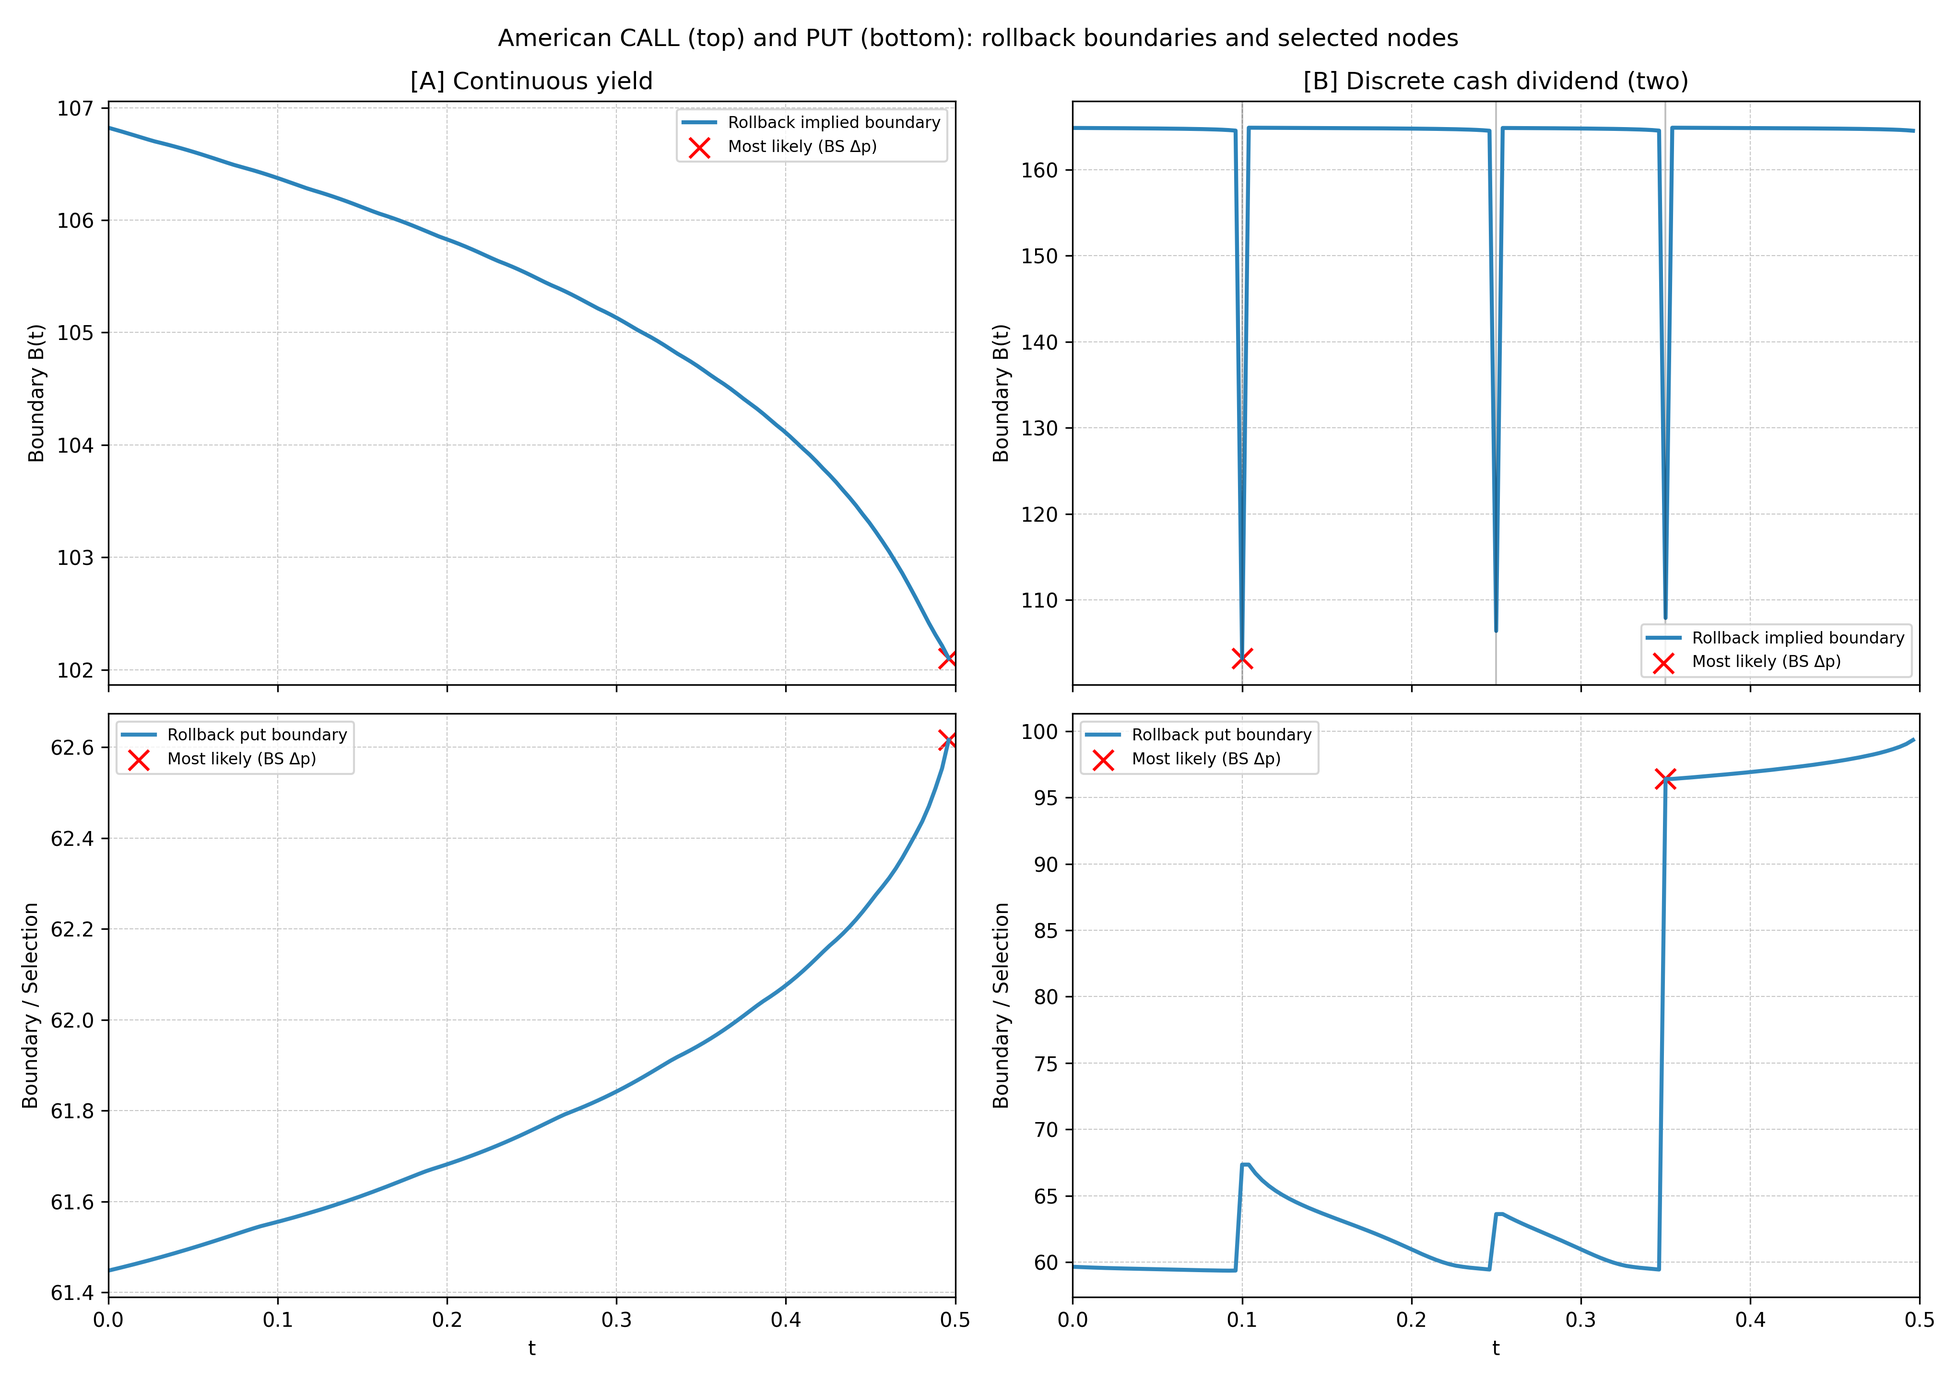
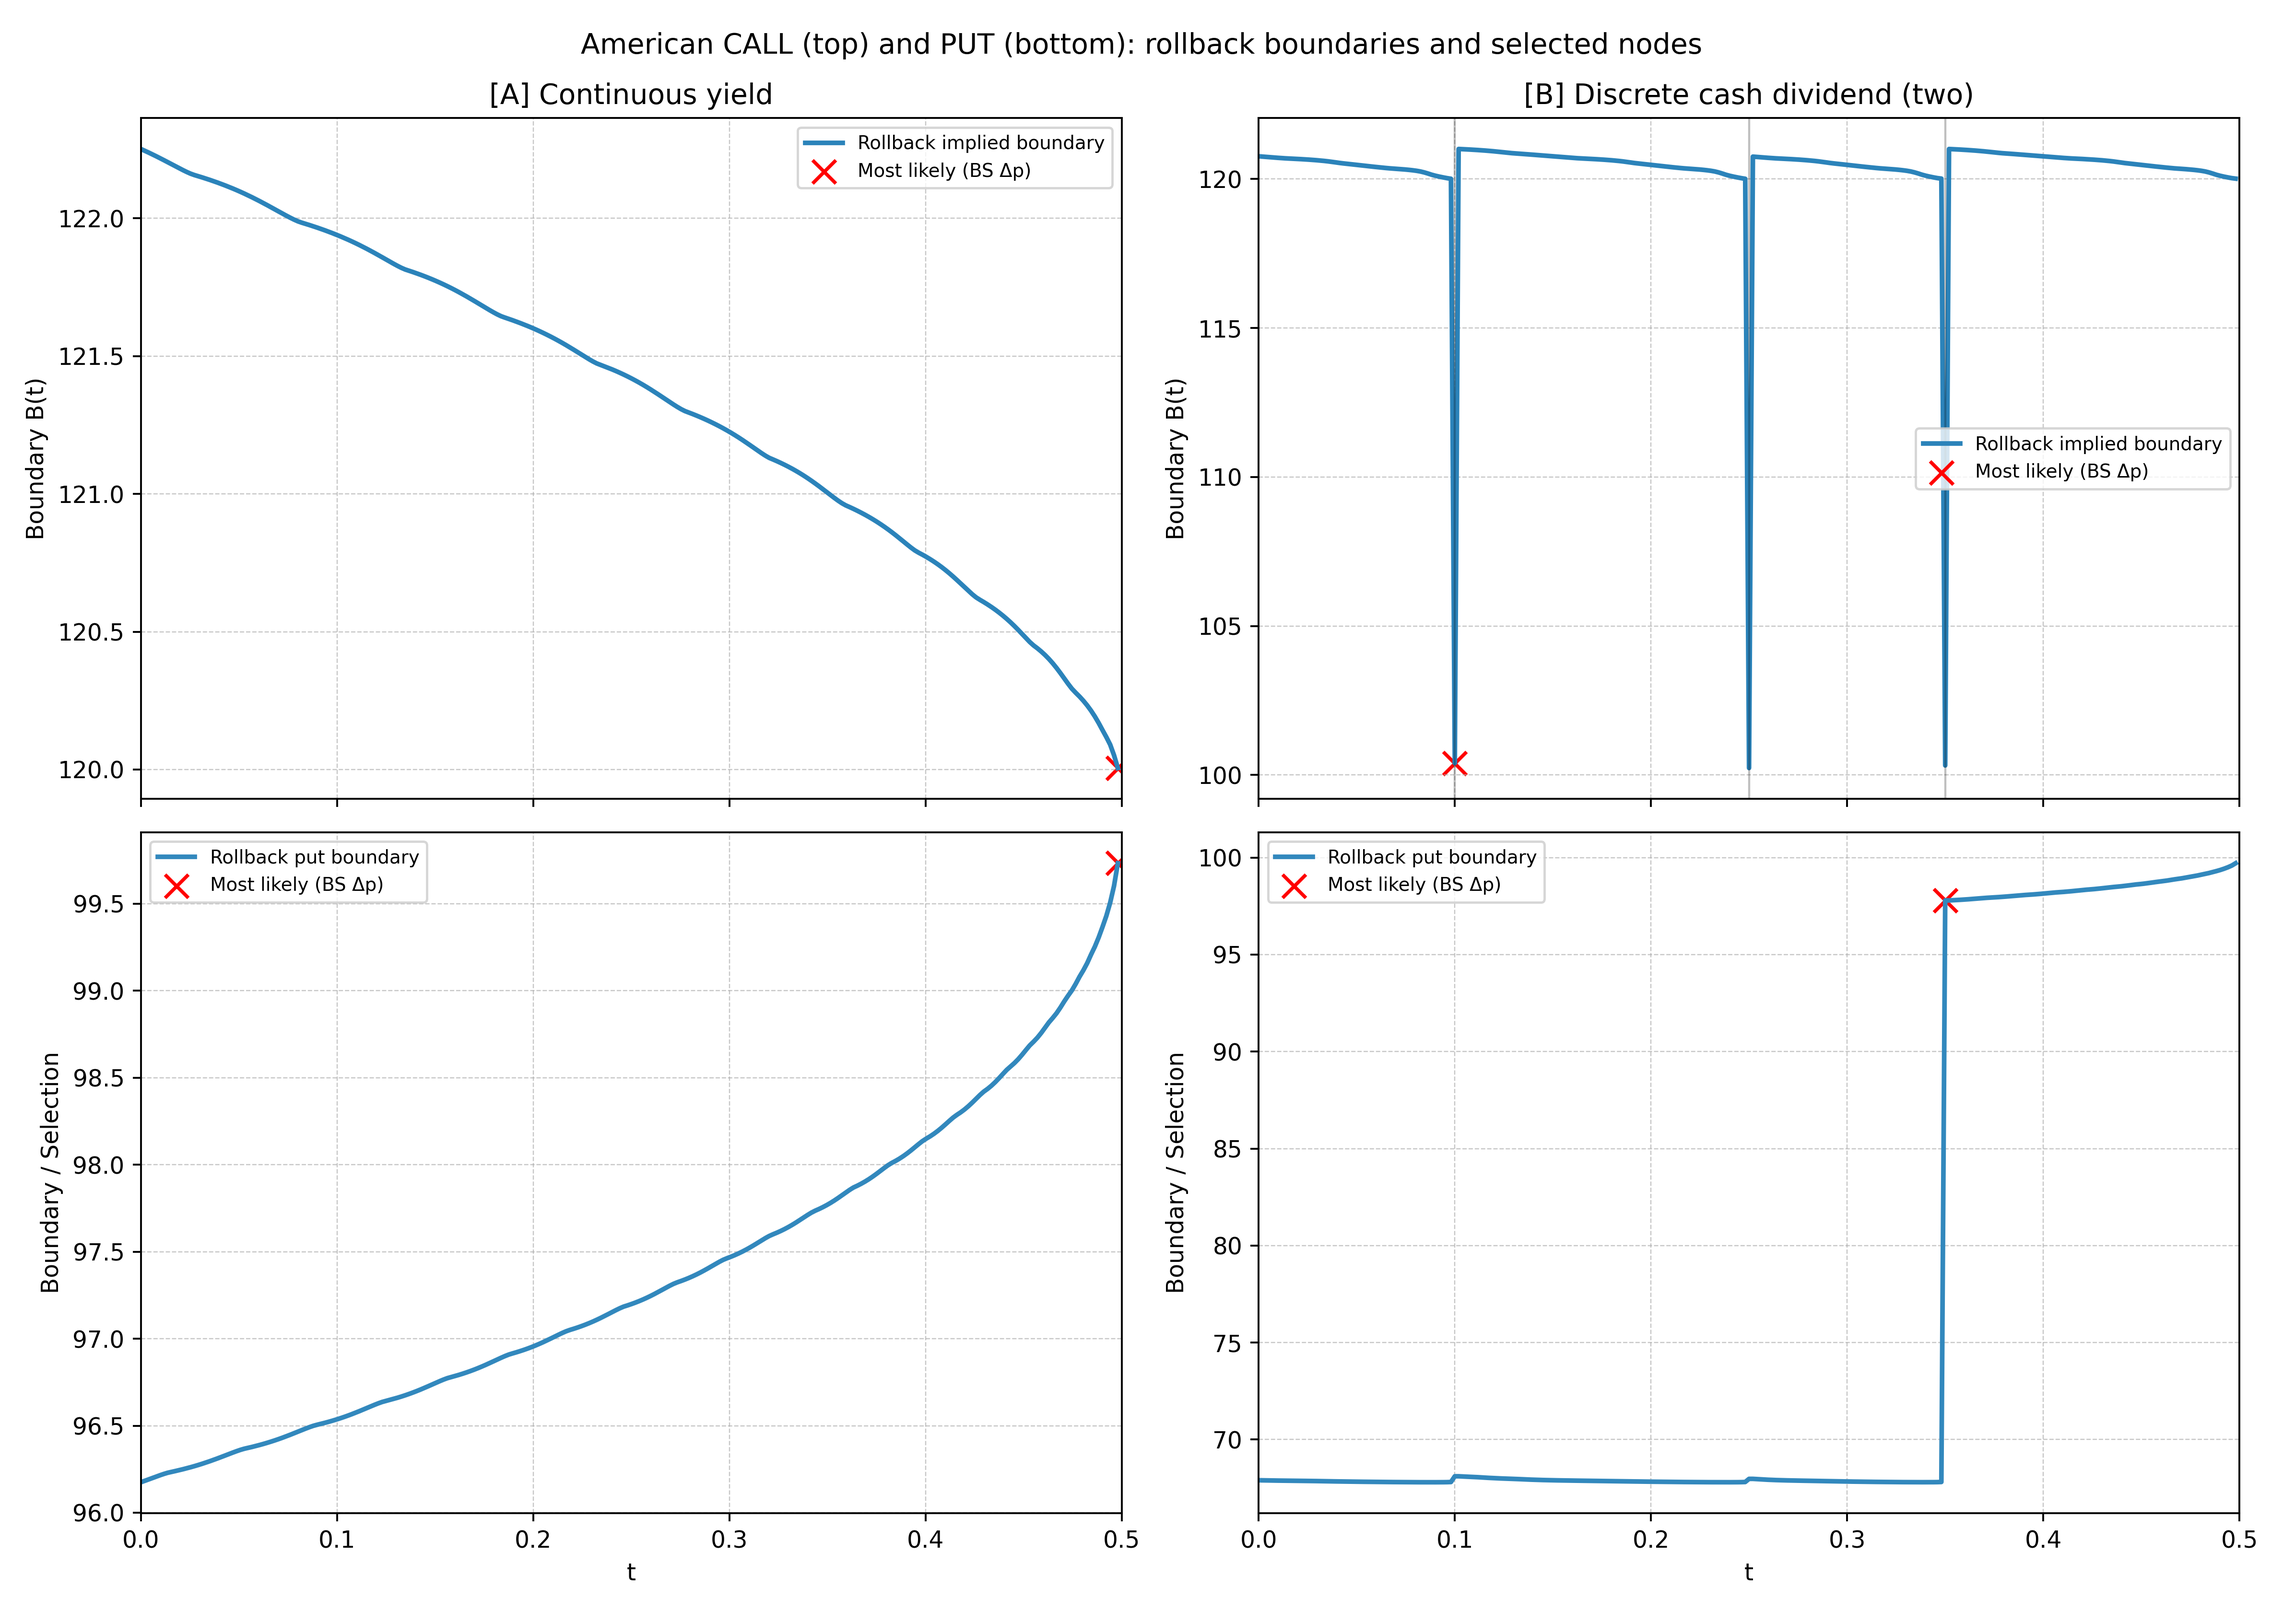
Regenerate boundary plots (current config)
- Re-run plot_call_boundary_heuristics_clean with current defaults

- Update high-DPI boundary plot and B_call probability-through-time CSV

diff --git a/tools/plot_call_boundary_heuristics_clean.py b/tools/plot_call_boundary_heuristics_clean.py
@@ -388,7 +388,7 @@ def main():
 
     # Provide sensible defaults for Merton if user didn't supply params
     if (not model_params) and args.model.strip().lower() == 'merton':
-        model_params = {'sigma': 0.06, 'lam': 0.5, 'muJ': -0.05, 'sigmaJ': 0.03}
+        model_params = {'sigma': 0.03, 'lam': 0.5, 'muJ': -0.05, 'sigmaJ': 0.03}
 
     print(f"Effective implied volatility for model {args.model} with params {model_params}: {np.sqrt(model_params.get('sigma', 0.2) ** 2 + model_params.get('lam', 0.0) * (model_params.get('muJ', 0.0) ** 2 + model_params.get('sigmaJ', 0.0) ** 2)):.2%}")
 
@@ -397,19 +397,19 @@ def main():
     # Baseline
     S0 = 100.0
     K = 100.0
-    r = 0.01
-    q = -0.005
+    r = 0.03
+    q = 0.025
     T = 0.5
 
     # case A: continuous yield (unless user provides divs)
-    case_a = {'name': 'Continuous yield', 'S0': S0, 'K': K, 'r': r, 'q': q * 0 + 0.025, 'T': T, 'divs_cash': divs_input if divs_input else {}}
+    case_a = {'name': 'Continuous yield', 'S0': S0, 'K': K, 'r': r, 'q': q, 'T': T, 'divs_cash': divs_input if divs_input else {}}
 
     # case B: discrete dividends (user-provided or defaults)
     # default two cash dividends chosen to match prior experiments
     if divs_input:
         divs_b = divs_input
     else:
-        divs_b = {0.1: (1.0, 0.0), 0.25: (0.25, 0.0), 0.35: (0.25, 0.0)}
+        divs_b = {0.1: (1.0, 0.0), 0.25: (1.0, 0.0), 0.35: (1.0, 0.0)}
     case_b = {'name': 'Discrete cash dividend (two)', 'S0': S0, 'K': K, 'r': r, 'q': q, 'T': T, 'divs_cash': divs_b}
 
     model_cls = make_model_cls(args.model)
